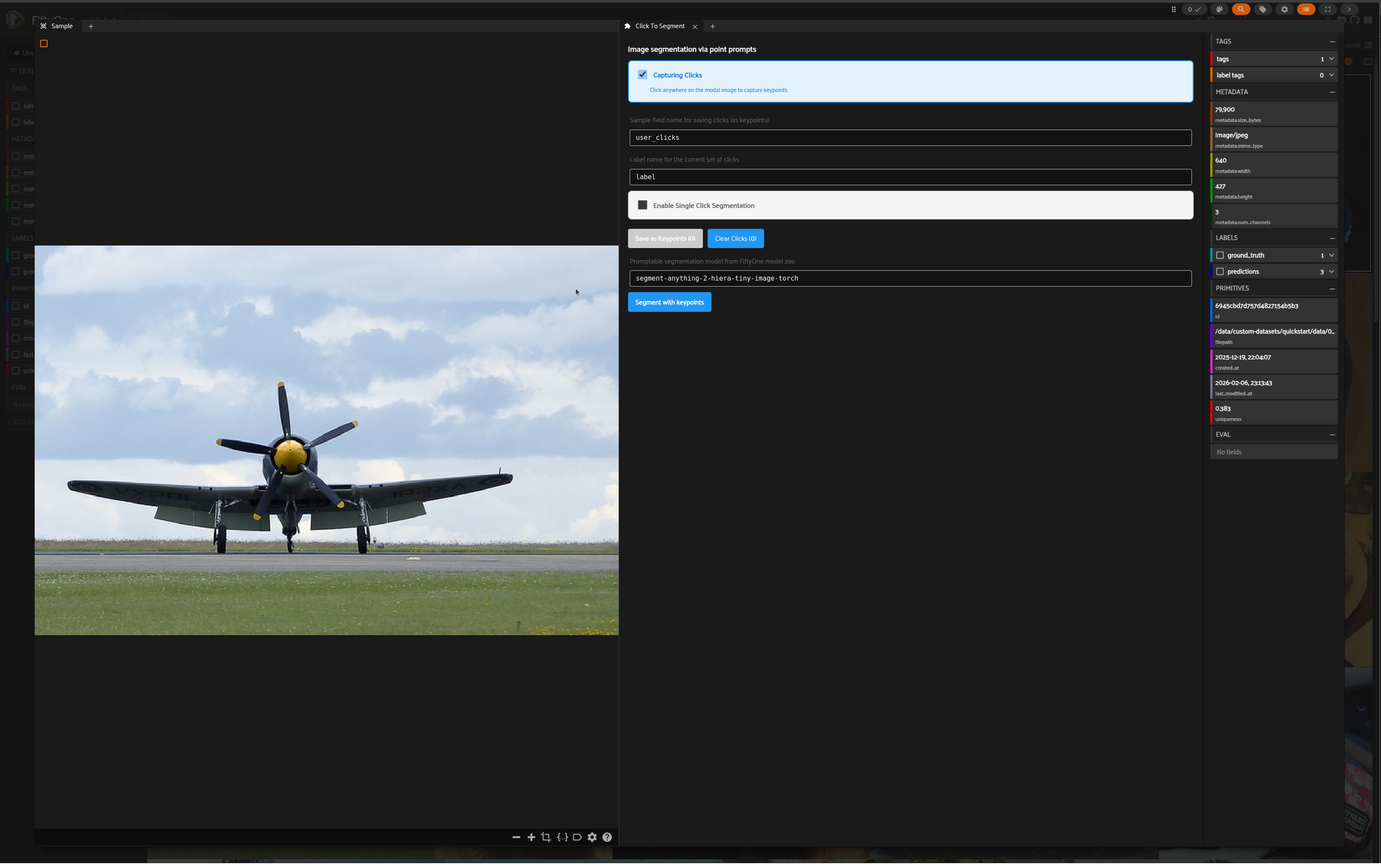
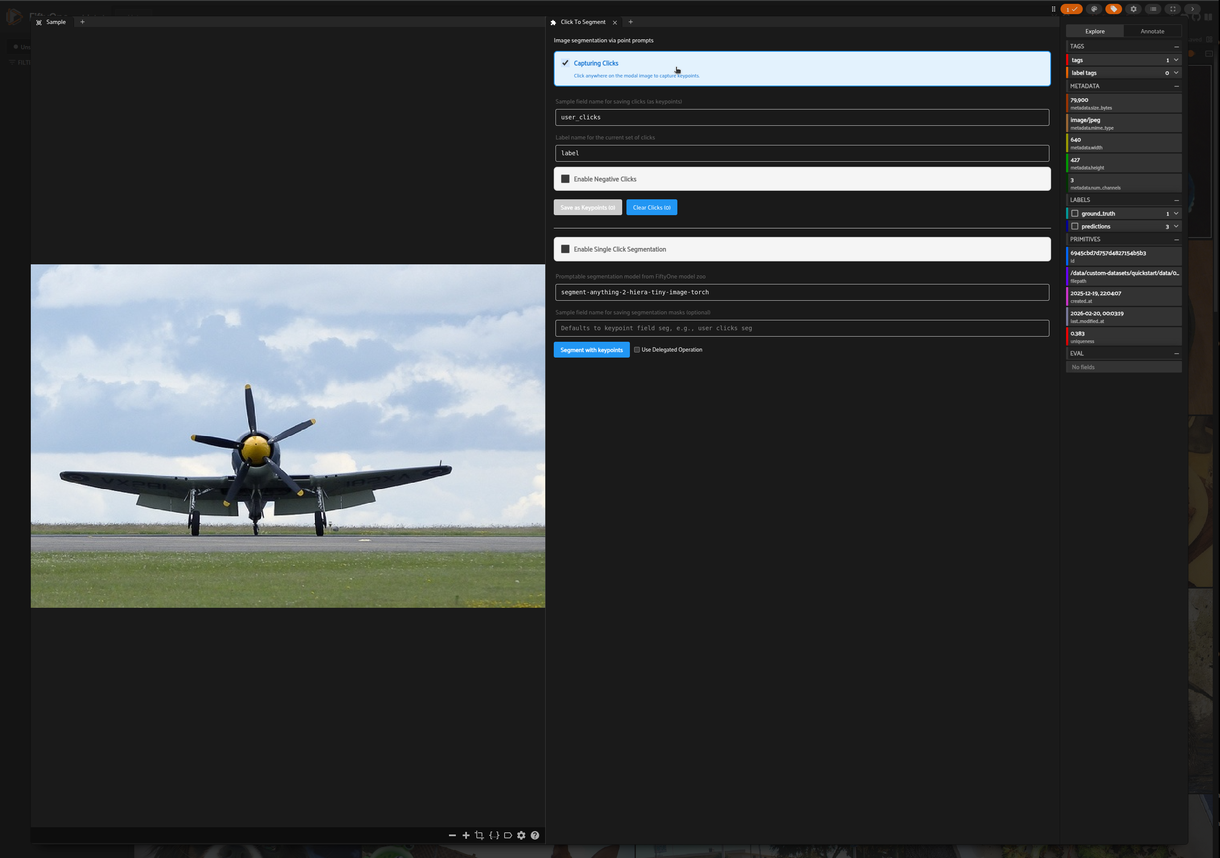
Add delegated operation checkbox to click to segment panel (#34)

diff --git a/plugins/click_segmentation/dist/index.umd.js b/plugins/click_segmentation/dist/index.umd.js
@@ -1,2 +1,2 @@
-(function(s,c){typeof exports=="object"&&typeof module<"u"?c(require("@fiftyone/plugins"),require("@fiftyone/operators"),require("@fiftyone/state"),require("recoil"),require("react")):typeof define=="function"&&define.amd?define(["@fiftyone/plugins","@fiftyone/operators","@fiftyone/state","recoil","react"],c):(s=typeof globalThis<"u"?globalThis:s||self,c(s.__fop__,s.__foo__,s.__fos__,s.recoil,s.React))})(this,function(s,c,O,B,r){"use strict";function D(o){const i=Object.create(null,{[Symbol.toStringTag]:{value:"Module"}});if(o){for(const m in o)if(m!=="default"){const n=Object.getOwnPropertyDescriptor(o,m);Object.defineProperty(i,m,n.get?n:{enumerable:!0,get:()=>o[m]})}}return i.default=o,Object.freeze(i)}const W=D(O);function X(){var N;const o=B.useRecoilValue(W.modalSample),[i,m]=r.useState([]),[n,A]=r.useState(!1),[p,z]=r.useState(!1),[a,F]=r.useState(!1),[g,T]=r.useState("user_clicks"),[h,$]=r.useState(""),[y,I]=r.useState("segment-anything-2-hiera-tiny-image-torch"),[b,P]=r.useState("label"),k=r.useRef([]);r.useEffect(()=>{if(!o)return;const e=o.sample.metadata;(!e||!e.width||!e.height)&&(console.log("Sample metadata not available. Computing metadata"),c.executeOperator("@51labs/click_segmentation/compute_metadata",{}).catch(l=>{console.error("Failed to compute metadata:",l)}))},[(N=o==null?void 0:o.sample)==null?void 0:N._id]),r.useEffect(()=>{if(!n||!o)return;const e=async l=>{const t=l.target;if(t.tagName!=="CANVAS")return;const d=t.getBoundingClientRect(),f=o.sample.metadata;if(!f||!f.width||!f.height){alert("Sample metadata not yet available. Reload/refresh the sample modal.");return}const C=f.width/f.height,V=d.width/d.height;let u,x,E,S;C>V?(u=d.width,x=d.width/C,E=0,S=(d.height-x)/2):(x=d.height,u=d.height*C,E=(d.width-u)/2,S=0);const H=l.clientX-d.left,G=l.clientY-d.top,_=H-E,v=G-S;if(_<0||_>u||v<0||v>x){console.log("Click outside image bounds");return}const J=_/u,Q=v/x,w={normalizedX:parseFloat(J.toFixed(4)),normalizedY:parseFloat(Q.toFixed(4)),label:p?0:1};console.log("Click captured:",w),L(l.clientX,l.clientY),a?await q(w):m(U=>[...U,w])};return document.addEventListener("click",e,!0),()=>document.removeEventListener("click",e,!0)},[n,o,a,p,y,g]);const j=async()=>{if(!g.trim()){alert("Please enter a field name");return}const e=i.map(t=>[t.normalizedX,t.normalizedY]),l=i.map(t=>[t.label]);try{await c.executeOperator("@51labs/click_segmentation/save_keypoints",{keypoints:e,keypoint_labels:l,kpts_field_name:g.trim(),label_name:b.trim()}),await c.executeOperator("reload_dataset")}catch(t){console.error("Error saving keypoints:",t),alert(`Failed: ${t.message}`)}finally{R()}},q=async e=>{const l=[[e.normalizedX,e.normalizedY]];try{alert("Segmentation in progress"),await c.executeOperator("@51labs/click_segmentation/save_keypoints",{keypoints:l,kpts_field_name:g.trim(),label_name:b.trim()}),await new Promise(t=>setTimeout(t,10)),await c.executeOperator("@51labs/click_segmentation/segment_with_prompts",{prompt_field:g.trim(),model_name:y.trim(),label_field:h.trim()}),m([])}catch(t){console.error("Error auto segmenting:",t),alert(`Failed: ${t.message}`)}finally{R()}},K=async()=>{try{a||alert("Segmentation in progress"),await c.executeOperator("@51labs/click_segmentation/segment_with_prompts",{prompt_field:g.trim(),model_name:y.trim(),label_field:h.trim()})}catch(e){console.error("Error saving keypoints:",e),alert(`Failed: ${e.message}`)}},L=(e,l)=>{const t=document.createElement("div");t.className="click-marker",t.style.position="fixed",t.style.left=`${e}px`,t.style.top=`${l}px`,t.style.width="12px",t.style.height="12px",t.style.borderRadius="50%",t.style.backgroundColor=p?"#1da10e":"#ff4444",t.style.border="3px solid white",t.style.transform="translate(-50%, -50%)",t.style.pointerEvents="none",t.style.zIndex="99999",t.style.boxShadow=p?"0 0 10px rgba(29,161,14,0.8)":"0 0 10px rgba(255,0,0,0.8)",document.body.appendChild(t),k.current.push(t)},M=()=>{k.current.forEach(e=>{e.style.transition="opacity 0.3s ease-out, transform 0.3s ease-out",e.style.opacity="0",e.style.transform="translate(-50%, -50%) scale(0)",setTimeout(()=>{e.remove()},300)}),k.current=[]},R=()=>{console.log("Clearing clicks and markers"),m([]),M()};return React.createElement("div",{style:{padding:"20px",display:"flex",flexDirection:"column",height:"100%"}},React.createElement("div",{style:{marginBottom:"15px"}},React.createElement("h3",{style:{margin:0}},"Image segmentation via point prompts")),React.createElement("div",{style:{marginBottom:"20px",display:"flex",flexDirection:"column",padding:"15px",backgroundColor:n?"#e3f2fd":"#f5f5f5",borderRadius:"8px",border:`2px solid ${n?"#2196F3":"#ddd"}`,transition:"all 0.3s ease"}},React.createElement("label",{style:{display:"flex",alignItems:"center",gap:"10px",cursor:"pointer"}},React.createElement("input",{type:"checkbox",checked:n,onChange:e=>A(e.target.checked),style:{width:"20px",height:"20px",cursor:"pointer"}}),React.createElement("span",{style:{fontWeight:"bold",fontSize:"15px",color:n?"#1976d2":"#666"}},n?"Capturing Clicks":"Activate Click Capture")),n&&React.createElement("p",{style:{fontSize:"12px",color:"#1976d2",margin:"8px 0 0 30px",fontWeight:"500"}},"Click anywhere on the modal image to capture keypoints.")),React.createElement("div",{style:{marginBottom:"8px",padding:"4px"}},React.createElement("label",{style:{display:"flex",flexDirection:"column",gap:"8px",fontSize:"14px"}},React.createElement("span",{style:{fontSize:"14px",color:"#666"}},"Sample field name for saving clicks (as keypoints)"),React.createElement("input",{type:"text",value:g,onChange:e=>T(e.target.value),placeholder:"e.g., user_clicks, keypoints",style:{padding:"8px 12px",border:"1px solid #ccc",borderRadius:"4px",fontSize:"14px",fontFamily:"monospace"}}))),React.createElement("div",{style:{marginBottom:"8px",padding:"4px"}},React.createElement("label",{style:{display:"flex",flexDirection:"column",gap:"8px",fontSize:"14px"}},React.createElement("span",{style:{fontSize:"14px",color:"#666"}},"Label name for the current set of clicks"),React.createElement("input",{type:"text",value:b,onChange:e=>P(e.target.value),placeholder:"e.g., animal, person",style:{padding:"8px 12px",border:"1px solid #ccc",borderRadius:"4px",fontSize:"14px",fontFamily:"monospace"}}))),React.createElement("div",{style:{marginBottom:"20px",display:"flex",flexDirection:"column",padding:"15px",backgroundColor:p?"#fdf0e3":"#f5f5f5",borderRadius:"8px",border:`2px solid ${p?"#f36b21":"#ddd"}`,transition:"all 0.3s ease"}},React.createElement("label",{style:{display:"flex",alignItems:"center",gap:"10px",cursor:"pointer"}},React.createElement("input",{type:"checkbox",checked:p,onChange:e=>{F(!1),z(e.target.checked)},disabled:!n,style:{width:"20px",height:"20px",cursor:n?"pointer":"not-allowed"}}),React.createElement("span",{style:{fontWeight:"bold",fontSize:"15px",color:p?"#d26319":"#666"}},p?"Negative Clicks Enabled":"Enable Negative Clicks")),n&&p&&React.createElement("p",{style:{fontSize:"12px",color:"#d26319",margin:"8px 0 0 30px",fontWeight:"500"}},"Capturing negative keypoint prompts via clicks. Not supported for single click execution.")),React.createElement("div",{style:{marginBottom:"10px",display:"flex",gap:"10px"}},React.createElement("button",{onClick:j,disabled:a||i.length===0,style:{padding:"8px 16px",backgroundColor:!a&&i.length>0?"#2196F3":"#ccc",color:"white",border:"none",borderRadius:"4px",cursor:!a&&i.length>0?"pointer":"not-allowed",fontWeight:"bold"}},"Save as Keypoints (",i.length,")"),React.createElement("button",{onClick:R,disabled:a||i.length===0,style:{padding:"8px 16px",backgroundColor:!a||i.length>0?"#2196F3":"#ccc",color:"white",border:"none",borderRadius:"4px",cursor:!a&&i.length>0?"pointer":"not-allowed"}},"Clear Clicks (",i.length,")")),React.createElement("hr",{style:{border:"none",borderTop:"1px solid #ddd",margin:"20px 0"}}),React.createElement("div",{style:{marginBottom:"20px",display:"flex",flexDirection:"column",padding:"15px",backgroundColor:a?"#e3f2fd":"#f5f5f5",borderRadius:"8px",border:`2px solid ${a?"#2196F3":"#ddd"}`,transition:"all 0.3s ease"}},React.createElement("label",{style:{display:"flex",alignItems:"center",gap:"10px",cursor:"pointer"}},React.createElement("input",{type:"checkbox",checked:a,onChange:e=>{F(e.target.checked),z(!1)},disabled:!n,style:{width:"20px",height:"20px",cursor:n?"pointer":"not-allowed"}}),React.createElement("span",{style:{fontWeight:"bold",fontSize:"15px",color:a?"#1976d2":"#666"}},a?"Single Click Segmentation":"Enable Single Click Segmentation")),a&&React.createElement("p",{style:{fontSize:"12px",color:"#1976d2",margin:"8px 0 0 30px",fontWeight:"500"}},"Single click segmentation is enabled. Clicking on the modal will auto-generate segmentation.")),React.createElement("div",{style:{marginBottom:"8px",padding:"4px"}},React.createElement("label",{style:{display:"flex",flexDirection:"column",gap:"8px",fontSize:"14px"}},React.createElement("span",{style:{fontSize:"14px",color:"#666"}},"Promptable segmentation model from FiftyOne model zoo"),React.createElement("input",{type:"text",value:y,onChange:e=>I(e.target.value),placeholder:"e.g., segment-anything-2-hiera-small-image-torch",style:{padding:"8px 12px",border:"1px solid #ccc",borderRadius:"4px",fontSize:"14px",fontFamily:"monospace"}}))),React.createElement("div",{style:{marginBottom:"8px",padding:"4px"}},React.createElement("label",{style:{display:"flex",flexDirection:"column",gap:"8px",fontSize:"14px"}},React.createElement("span",{style:{fontSize:"14px",color:"#666"}},"Sample field name for saving segmentation masks (optional)"),React.createElement("input",{type:"text",value:h,onChange:e=>$(e.target.value),placeholder:"Defaults to keypoint_field_seg, e.g., user_clicks_seg",style:{padding:"8px 12px",border:"1px solid #ccc",borderRadius:"4px",fontSize:"14px",fontFamily:"monospace"}}))),React.createElement("div",{style:{marginBottom:"10px",display:"flex",gap:"10px"}},React.createElement("button",{onClick:K,disabled:a,style:{padding:"8px 16px",backgroundColor:a?"#ccc":"#2196F3",color:"white",border:"none",borderRadius:"4px",cursor:a?"not-allowed":"pointer",fontWeight:"bold"}},"Segment with keypoints")))}s.registerComponent({name:"ClickSegmentation",label:"Click To Segment",component:X,type:s.PluginComponentType.Panel,activator:Y,panelOptions:{surfaces:"modal"}});function Y({dataset:o}){return!0}});
+(function(s,c){typeof exports=="object"&&typeof module<"u"?c(require("@fiftyone/plugins"),require("@fiftyone/operators"),require("@fiftyone/state"),require("recoil"),require("react")):typeof define=="function"&&define.amd?define(["@fiftyone/plugins","@fiftyone/operators","@fiftyone/state","recoil","react"],c):(s=typeof globalThis<"u"?globalThis:s||self,c(s.__fop__,s.__foo__,s.__fos__,s.recoil,s.React))})(this,function(s,c,O,B,r){"use strict";function W(o){const l=Object.create(null,{[Symbol.toStringTag]:{value:"Module"}});if(o){for(const m in o)if(m!=="default"){const n=Object.getOwnPropertyDescriptor(o,m);Object.defineProperty(l,m,n.get?n:{enumerable:!0,get:()=>o[m]})}}return l.default=o,Object.freeze(l)}const X=W(O);function Y(){var N;const o=B.useRecoilValue(X.modalSample),[l,m]=r.useState([]),[n,I]=r.useState(!1),[p,F]=r.useState(!1),[a,D]=r.useState(!1),[f,T]=r.useState(!1),[g,$]=r.useState("user_clicks"),[b,q]=r.useState(""),[h,P]=r.useState("segment-anything-2-hiera-tiny-image-torch"),[k,j]=r.useState("label"),R=r.useRef([]);r.useEffect(()=>{if(!o)return;const e=o.sample.metadata;(!e||!e.width||!e.height)&&(console.log("Sample metadata not available. Computing metadata"),c.executeOperator("@51labs/click_segmentation/compute_metadata",{}).catch(i=>{console.error("Failed to compute metadata:",i)}))},[(N=o==null?void 0:o.sample)==null?void 0:N._id]),r.useEffect(()=>{if(!n||!o)return;const e=async i=>{const t=i.target;if(t.tagName!=="CANVAS")return;const d=t.getBoundingClientRect(),u=o.sample.metadata;if(!u||!u.width||!u.height){alert("Sample metadata not yet available. Reload/refresh the sample modal.");return}const E=u.width/u.height,H=d.width/d.height;let x,y,S,_;E>H?(x=d.width,y=d.width/E,S=0,_=(d.height-y)/2):(y=d.height,x=d.height*E,S=(d.width-x)/2,_=0);const G=i.clientX-d.left,J=i.clientY-d.top,v=G-S,w=J-_;if(v<0||v>x||w<0||w>y){console.log("Click outside image bounds");return}const Q=v/x,Z=w/y,z={normalizedX:parseFloat(Q.toFixed(4)),normalizedY:parseFloat(Z.toFixed(4)),label:p?0:1};console.log("Click captured:",z),U(i.clientX,i.clientY),a?await L(z):m(ee=>[...ee,z])};return document.addEventListener("click",e,!0),()=>document.removeEventListener("click",e,!0)},[n,o,a,p,h,g,f]);const K=async()=>{if(!g.trim()){alert("Please enter a field name");return}const e=l.map(t=>[t.normalizedX,t.normalizedY]),i=l.map(t=>[t.label]);try{await c.executeOperator("@51labs/click_segmentation/save_keypoints",{keypoints:e,keypoint_labels:i,kpts_field_name:g.trim(),label_name:k.trim()}),await c.executeOperator("reload_dataset")}catch(t){console.error("Error saving keypoints:",t),alert(`Failed: ${t.message}`)}finally{C()}},L=async e=>{const i=[[e.normalizedX,e.normalizedY]];try{alert("Segmentation in progress"),await c.executeOperator("@51labs/click_segmentation/save_keypoints",{keypoints:i,kpts_field_name:g.trim(),label_name:k.trim()}),console.log("Delegation ",f),await new Promise(t=>setTimeout(t,10)),await c.executeOperator("@51labs/click_segmentation/segment_with_prompts",{prompt_field:g.trim(),model_name:h.trim(),label_field:b.trim()},{requestDelegation:f}),m([])}catch(t){console.error("Error auto segmenting:",t),alert(`Failed: ${t.message}`)}finally{C()}},M=async()=>{try{a||alert("Segmentation in progress"),await c.executeOperator("@51labs/click_segmentation/segment_with_prompts",{prompt_field:g.trim(),model_name:h.trim(),label_field:b.trim()},{requestDelegation:f})}catch(e){console.error("Error saving keypoints:",e),alert(`Failed: ${e.message}`)}},U=(e,i)=>{const t=document.createElement("div");t.className="click-marker",t.style.position="fixed",t.style.left=`${e}px`,t.style.top=`${i}px`,t.style.width="12px",t.style.height="12px",t.style.borderRadius="50%",t.style.backgroundColor=p?"#1da10e":"#ff4444",t.style.border="3px solid white",t.style.transform="translate(-50%, -50%)",t.style.pointerEvents="none",t.style.zIndex="99999",t.style.boxShadow=p?"0 0 10px rgba(29,161,14,0.8)":"0 0 10px rgba(255,0,0,0.8)",document.body.appendChild(t),R.current.push(t)},V=()=>{R.current.forEach(e=>{e.style.transition="opacity 0.3s ease-out, transform 0.3s ease-out",e.style.opacity="0",e.style.transform="translate(-50%, -50%) scale(0)",setTimeout(()=>{e.remove()},300)}),R.current=[]},C=()=>{console.log("Clearing clicks and markers"),m([]),V()};return React.createElement("div",{style:{padding:"20px",display:"flex",flexDirection:"column",height:"100%"}},React.createElement("div",{style:{marginBottom:"15px"}},React.createElement("h3",{style:{margin:0}},"Image segmentation via point prompts")),React.createElement("div",{style:{marginBottom:"20px",display:"flex",flexDirection:"column",padding:"15px",backgroundColor:n?"#e3f2fd":"#f5f5f5",borderRadius:"8px",border:`2px solid ${n?"#2196F3":"#ddd"}`,transition:"all 0.3s ease"}},React.createElement("label",{style:{display:"flex",alignItems:"center",gap:"10px",cursor:"pointer"}},React.createElement("input",{type:"checkbox",checked:n,onChange:e=>I(e.target.checked),style:{width:"20px",height:"20px",cursor:"pointer"}}),React.createElement("span",{style:{fontWeight:"bold",fontSize:"15px",color:n?"#1976d2":"#666"}},n?"Capturing Clicks":"Activate Click Capture")),n&&React.createElement("p",{style:{fontSize:"12px",color:"#1976d2",margin:"8px 0 0 30px",fontWeight:"500"}},"Click anywhere on the modal image to capture keypoints.")),React.createElement("div",{style:{marginBottom:"8px",padding:"4px"}},React.createElement("label",{style:{display:"flex",flexDirection:"column",gap:"8px",fontSize:"14px"}},React.createElement("span",{style:{fontSize:"14px",color:"#666"}},"Sample field name for saving clicks (as keypoints)"),React.createElement("input",{type:"text",value:g,onChange:e=>$(e.target.value),placeholder:"e.g., user_clicks, keypoints",style:{padding:"8px 12px",border:"1px solid #ccc",borderRadius:"4px",fontSize:"14px",fontFamily:"monospace"}}))),React.createElement("div",{style:{marginBottom:"8px",padding:"4px"}},React.createElement("label",{style:{display:"flex",flexDirection:"column",gap:"8px",fontSize:"14px"}},React.createElement("span",{style:{fontSize:"14px",color:"#666"}},"Label name for the current set of clicks"),React.createElement("input",{type:"text",value:k,onChange:e=>j(e.target.value),placeholder:"e.g., animal, person",style:{padding:"8px 12px",border:"1px solid #ccc",borderRadius:"4px",fontSize:"14px",fontFamily:"monospace"}}))),React.createElement("div",{style:{marginBottom:"20px",display:"flex",flexDirection:"column",padding:"15px",backgroundColor:p?"#fdf0e3":"#f5f5f5",borderRadius:"8px",border:`2px solid ${p?"#f36b21":"#ddd"}`,transition:"all 0.3s ease"}},React.createElement("label",{style:{display:"flex",alignItems:"center",gap:"10px",cursor:"pointer"}},React.createElement("input",{type:"checkbox",checked:p,onChange:e=>{D(!1),F(e.target.checked)},disabled:!n,style:{width:"20px",height:"20px",cursor:n?"pointer":"not-allowed"}}),React.createElement("span",{style:{fontWeight:"bold",fontSize:"15px",color:p?"#d26319":"#666"}},p?"Negative Clicks Enabled":"Enable Negative Clicks")),n&&p&&React.createElement("p",{style:{fontSize:"12px",color:"#d26319",margin:"8px 0 0 30px",fontWeight:"500"}},"Capturing negative keypoint prompts via clicks. Not supported for single click execution.")),React.createElement("div",{style:{marginBottom:"10px",display:"flex",gap:"10px"}},React.createElement("button",{onClick:K,disabled:a||l.length===0,style:{padding:"8px 16px",backgroundColor:!a&&l.length>0?"#2196F3":"#ccc",color:"white",border:"none",borderRadius:"4px",cursor:!a&&l.length>0?"pointer":"not-allowed",fontWeight:"bold"}},"Save as Keypoints (",l.length,")"),React.createElement("button",{onClick:C,disabled:a||l.length===0,style:{padding:"8px 16px",backgroundColor:!a||l.length>0?"#2196F3":"#ccc",color:"white",border:"none",borderRadius:"4px",cursor:!a&&l.length>0?"pointer":"not-allowed"}},"Clear Clicks (",l.length,")")),React.createElement("hr",{style:{border:"none",borderTop:"1px solid #ddd",margin:"20px 0"}}),React.createElement("div",{style:{marginBottom:"20px",display:"flex",flexDirection:"column",padding:"15px",backgroundColor:a?"#e3f2fd":"#f5f5f5",borderRadius:"8px",border:`2px solid ${a?"#2196F3":"#ddd"}`,transition:"all 0.3s ease"}},React.createElement("label",{style:{display:"flex",alignItems:"center",gap:"10px",cursor:"pointer"}},React.createElement("input",{type:"checkbox",checked:a,onChange:e=>{D(e.target.checked),F(!1)},disabled:!n,style:{width:"20px",height:"20px",cursor:n?"pointer":"not-allowed"}}),React.createElement("span",{style:{fontWeight:"bold",fontSize:"15px",color:a?"#1976d2":"#666"}},a?"Single Click Segmentation":"Enable Single Click Segmentation")),a&&React.createElement("p",{style:{fontSize:"12px",color:"#1976d2",margin:"8px 0 0 30px",fontWeight:"500"}},"Single click segmentation is enabled. Clicking on the modal will auto-generate segmentation.")),React.createElement("div",{style:{marginBottom:"8px",padding:"4px"}},React.createElement("label",{style:{display:"flex",flexDirection:"column",gap:"8px",fontSize:"14px"}},React.createElement("span",{style:{fontSize:"14px",color:"#666"}},"Promptable segmentation model from FiftyOne model zoo"),React.createElement("input",{type:"text",value:h,onChange:e=>P(e.target.value),placeholder:"e.g., segment-anything-2-hiera-small-image-torch",style:{padding:"8px 12px",border:"1px solid #ccc",borderRadius:"4px",fontSize:"14px",fontFamily:"monospace"}}))),React.createElement("div",{style:{marginBottom:"8px",padding:"4px"}},React.createElement("label",{style:{display:"flex",flexDirection:"column",gap:"8px",fontSize:"14px"}},React.createElement("span",{style:{fontSize:"14px",color:"#666"}},"Sample field name for saving segmentation masks (optional)"),React.createElement("input",{type:"text",value:b,onChange:e=>q(e.target.value),placeholder:"Defaults to keypoint_field_seg, e.g., user_clicks_seg",style:{padding:"8px 12px",border:"1px solid #ccc",borderRadius:"4px",fontSize:"14px",fontFamily:"monospace"}}))),React.createElement("div",{style:{marginBottom:"10px",display:"flex",gap:"10px"}},React.createElement("button",{onClick:M,disabled:a,style:{padding:"8px 16px",backgroundColor:a?"#ccc":"#2196F3",color:"white",border:"none",borderRadius:"4px",cursor:a?"not-allowed":"pointer",fontWeight:"bold"}},"Segment with keypoints"),React.createElement("label",{style:{display:"flex",alignItems:"center",gap:"5px",fontSize:"13px",whiteSpace:"nowrap",cursor:"pointer"}},React.createElement("input",{type:"checkbox",checked:f,onChange:e=>T(e.target.checked),style:{cursor:"pointer"}}),"Use Delegated Operation")))}s.registerComponent({name:"ClickSegmentation",label:"Click To Segment",component:Y,type:s.PluginComponentType.Panel,activator:A,panelOptions:{surfaces:"modal"}});function A({dataset:o}){return!0}});
 //# sourceMappingURL=index.umd.js.map

diff --git a/plugins/click_segmentation/src/ClickSegmentation.tsx b/plugins/click_segmentation/src/ClickSegmentation.tsx
@@ -11,6 +11,7 @@ export function ClickSegmentation() {
   const [isCapturing, setIsCapturing] = useState(false);
   const [isNegativeClick, setIsNegativeClick] = useState(false);
   const [isSingleClick, setSingleClick] = useState(false);
+  const [useDelegation, setUseDelegation] = useState(false);
   const [keypointFieldName, setKeypointFieldName] = useState("user_clicks");
   const [segFieldName, setSegFieldName] = useState("");
   const [modelName, setModelName] = useState(
@@ -110,6 +111,7 @@ export function ClickSegmentation() {
     isNegativeClick,
     modelName,
     keypointFieldName,
+    useDelegation,
   ]);
 
   const saveAsKeypoints = async () => {
@@ -150,14 +152,21 @@ export function ClickSegmentation() {
         kpts_field_name: keypointFieldName.trim(),
         label_name: labelName.trim(),
       });
+      console.log("Delegation ", useDelegation);
       // Add a delay to ensure keypoints are available
       // TODO: Remove delay. Find a better fix.
       await new Promise((resolve) => setTimeout(resolve, 10));
-      await executeOperator("@51labs/click_segmentation/segment_with_prompts", {
-        prompt_field: keypointFieldName.trim(),
-        model_name: modelName.trim(),
-        label_field: segFieldName.trim(),
-      });
+      await executeOperator(
+        "@51labs/click_segmentation/segment_with_prompts",
+        {
+          prompt_field: keypointFieldName.trim(),
+          model_name: modelName.trim(),
+          label_field: segFieldName.trim(),
+        },
+        {
+          requestDelegation: useDelegation,
+        }
+      );
       setClicks([]);
     } catch (error) {
       console.error("Error auto segmenting:", error);
@@ -172,11 +181,17 @@ export function ClickSegmentation() {
       if (!isSingleClick) {
         alert("Segmentation in progress");
       }
-      await executeOperator("@51labs/click_segmentation/segment_with_prompts", {
-        prompt_field: keypointFieldName.trim(),
-        model_name: modelName.trim(),
-        label_field: segFieldName.trim(),
-      });
+      await executeOperator(
+        "@51labs/click_segmentation/segment_with_prompts",
+        {
+          prompt_field: keypointFieldName.trim(),
+          model_name: modelName.trim(),
+          label_field: segFieldName.trim(),
+        },
+        {
+          requestDelegation: useDelegation,
+        }
+      );
     } catch (error) {
       console.error("Error saving keypoints:", error);
       alert(`Failed: ${error.message}`);
@@ -615,6 +630,24 @@ export function ClickSegmentation() {
         >
           Segment with keypoints
         </button>
+        <label
+          style={{
+            display: "flex",
+            alignItems: "center",
+            gap: "5px",
+            fontSize: "13px",
+            whiteSpace: "nowrap",
+            cursor: "pointer",
+          }}
+        >
+          <input
+            type="checkbox"
+            checked={useDelegation}
+            onChange={(e) => setUseDelegation(e.target.checked)}
+            style={{ cursor: "pointer" }}
+          />
+          Use Delegated Operation
+        </label>
       </div>
     </div>
   );

diff --git a/plugins/click_segmentation/__init__.py b/plugins/click_segmentation/__init__.py
@@ -1,4 +1,6 @@
 from itertools import chain
+from packaging.version import Version
+
 import fiftyone as fo
 import fiftyone.operators as foo
 from fiftyone.operators import types
@@ -76,11 +78,30 @@ class SaveKeypoints(foo.Operator):
         field_name = ctx.params["kpts_field_name"]
         label_name = ctx.params["label_name"]
 
+        # NOTE: Negative prompting requires https://github.com/voxel51/fiftyone/pull/6941
+        # If fix is not available, raise a warning and remove negative prompts
+        remove_neg_pts = False
+        if Version(fo.constants.VERSION) < Version("1.14.0"):
+            remove_neg_pts = True
+        elif hasattr(fo.constants, "TEAM_VERSION"):
+            if Version(fo.constants.TEAM_VERSION) < Version("2.17.0"):
+                remove_neg_pts = True
+        if remove_neg_pts and keypoint_labels:
+            ctx.ops.notify(
+                "Negative prompting not available with the installed fiftyone version. Removing negative points.",
+                variant="warning",
+            )
+            keypoints = [
+                kpt for kpt, lbl in zip(keypoints, keypoint_labels) if lbl != 0
+            ]
+            keypoint_labels = None
+
         keypoint = fo.Keypoint(
             points=keypoints,
             label=label_name,
-            sam_labels=keypoint_labels,
         )
+        if keypoint_labels:
+            keypoint.sam_labels = keypoint_labels
 
         if sample.has_field(field_name) and sample[field_name] is not None:
             num_kpts = len(sample[field_name].keypoints)
@@ -107,7 +128,7 @@ class SegmentWithPrompts(foo.Operator):
             dark_icon="/assets/icon-dark.svg",
             allow_delegated_execution=True,
             allow_immediate_execution=True,
-            default_choice_to_delegated=False,
+            default_choice_to_delegated=True,
             allow_distributed_execution=True,
         )
 

diff --git a/plugins/click_segmentation/README.md b/plugins/click_segmentation/README.md
@@ -45,8 +45,6 @@ _Add another set of clicks for sky and save as keypoints_
 
 <img src="assets/clicks_sky.png" alt="Keypoints for sky" width="800">
 
-NOTE: Clicked points are currently not rendered in the Sample modal. You can view them via the keypoints label field.
-
 _Choose a segmentation model from FiftyOne model zoo and click on Segment with Keypoints button_
 
 <img src="assets/seg_success_notification.png" alt="Segmentation successful" width="800">
@@ -64,3 +62,15 @@ _In the Click To Segment panel, enable single click segmentation by checking the
 _Add a click on the Sample modal to trigger auto-segmentation_
 
 <img src="assets/output_single_click_segmentation.png" alt="Keypoints for sky" width="800">
+
+### Segment With Prompt Operator
+
+_Launch the Segment With Prompts operator from the dropdown operators menu_
+
+<img src="assets/open_seg_with_prompts_op.png" alt="Segment-With-Prompts operator" width="800">
+
+_Add inputs and trigger execution_
+
+<img src="assets/seg_with_prompts_op.png" alt="Segment-With-Prompts operator" width="800">
+
+**Delegated Operation** To run `Segment With Prompts` operator with delegated operation, see the instructions [here](https://docs.voxel51.com/plugins/using_plugins.html#delegated-operations). You can also enable delegated operation via _Click To Segment_ panel by checking the `Use delegated operation` checkbox next to _Segment With Keypoints_ button.
